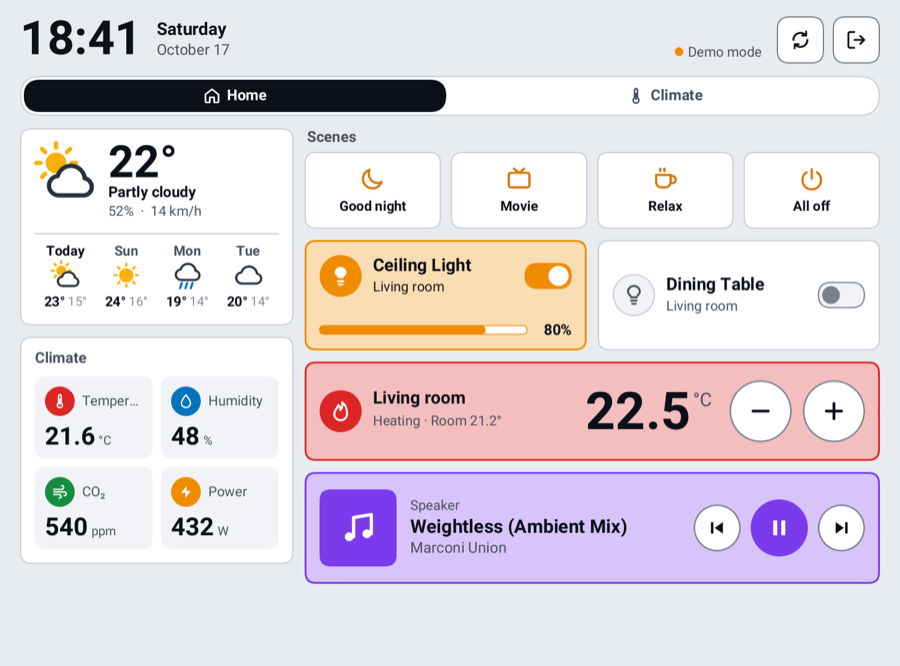
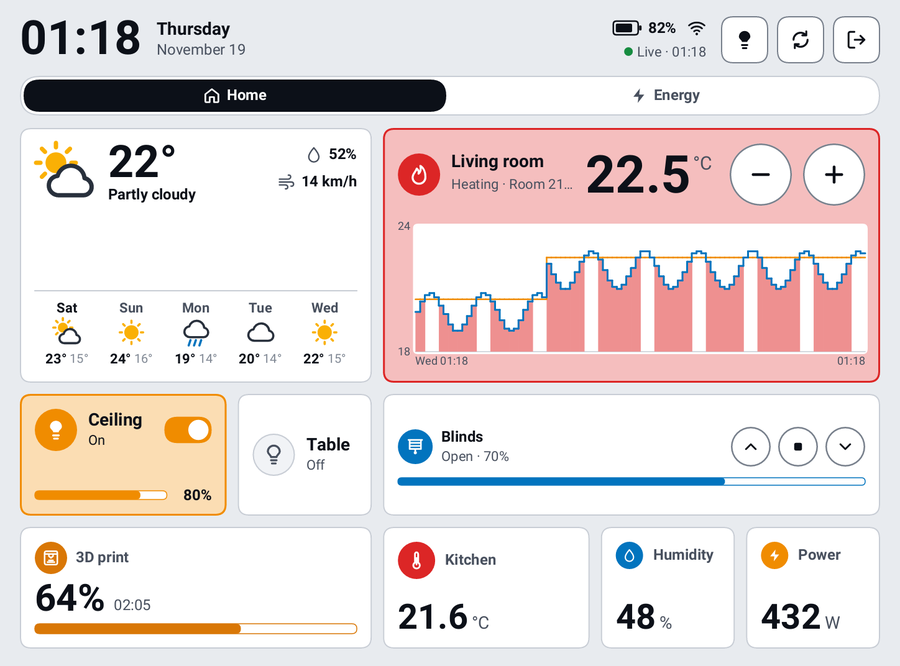
README: the designer, new cards, updates; new pictures
The pictures show a grid page with the newer cards (thermostat graph,
progress bar, blinds, compact sensors) in portrait and landscape, drawn
by the dashboard's own renderer from demo data
(`README_IMAGES=docs/images cargo test readme_images -- --ignored`),
and the setup tool's designer. Both READMEs describe the designer,
update notices, the Eject button and the log limit; the Turkish one
gets the landscape and setup pictures and the current clock advice.

diff --git a/src/ui/screen.rs b/src/ui/screen.rs
@@ -1649,6 +1649,81 @@ mod tests {
     }
 
 
+    /// The pictures in the README, from a page that shows the newer cards:
+    /// `README_IMAGES=docs/images cargo test readme_images -- --ignored`
+    #[test]
+    #[ignore]
+    fn readme_images() {
+        let Ok(dir) = std::env::var("README_IMAGES") else { return };
+        let mut states = crate::ha::mock::generate_mock_states();
+        let now = chrono::Utc::now();
+        let ms = now.timestamp_millis() as f64;
+        let rows: Vec<[f64; 4]> = (0..96)
+            .map(|i| {
+                let target = if i < 28 { 20.5 } else { 22.5 };
+                let room = target - 0.6 + ((i as f64) * 0.55).sin() * 0.9;
+                [ms - (96 - i) as f64 * 900_000.0, (room * 10.0f64).round() / 10.0, target, if room < target { 1.0 } else { 0.0 }]
+            })
+            .collect();
+        if let Some(c) = states.get_mut("climate.living_room") {
+            c.attributes.insert(crate::ui::widgets::climate_card::CLIMATE_HISTORY_ATTR.into(), serde_json::json!(rows));
+        }
+        let mut add = |id: &str, state: &str, attrs: serde_json::Value| {
+            let attributes = attrs.as_object().unwrap().iter().map(|(k, v)| (k.clone(), v.clone())).collect();
+            states.insert(id.into(), EntityState { entity_id: id.into(), state: state.into(), attributes, last_changed: None, last_updated: None });
+        };
+        add("sensor.printer_progress", "64", serde_json::json!({ "unit_of_measurement": "%" }));
+        let end = (now + chrono::Duration::minutes(47)).to_rfc3339();
+        add("sensor.printer_end", &end, serde_json::json!({ "device_class": "timestamp" }));
+        add("cover.living_room", "open", serde_json::json!({ "current_position": 70, "device_class": "shutter", "friendly_name": "Blinds" }));
+        add("binary_sensor.front_door", "off", serde_json::json!({ "device_class": "door", "friendly_name": "Front door" }));
+
+        let pages = |landscape: bool| -> String {
+            let at = |p: (u8, u8, u8, u8)| format!("{{x: {}, y: {}, w: {}, h: {}}}", p.0, p.1, p.2, p.3);
+            let (grid, weather, l1, l2, climate, print, cover, s1, s2, s3) = if landscape {
+                ("{columns: 12, rows: 8}", (0, 0, 5, 4), (0, 4, 3, 2), (3, 4, 2, 2), (5, 0, 7, 4), (0, 6, 5, 2), (5, 4, 7, 2), (5, 6, 3, 2), (8, 6, 2, 2), (10, 6, 2, 2))
+            } else {
+                ("{columns: 6, rows: 12}", (0, 0, 6, 3), (0, 3, 3, 2), (3, 3, 3, 2), (0, 5, 6, 4), (0, 9, 3, 2), (3, 9, 3, 2), (0, 11, 2, 1), (2, 11, 2, 1), (4, 11, 2, 1))
+            };
+            format!(
+                r#"
+- id: home
+  title: Home
+  icon: home
+  grid: {grid}
+  cards:
+    - {{type: weather, entity_id: weather.home, forecast_days: 5, pos: {}}}
+    - {{type: light, entity_id: light.ceiling, title: Ceiling, pos: {}}}
+    - {{type: light, entity_id: light.dining_table, title: Table, pos: {}}}
+    - {{type: climate, entity_id: climate.living_room, title: Living room, show_graph: true, pos: {}}}
+    - {{type: progress, entity_id: sensor.printer_progress, title: 3D print, icon: printer, secondary_entity: sensor.printer_end, pos: {}}}
+    - {{type: cover, entity_id: cover.living_room, title: Blinds, pos: {}}}
+    - {{type: sensor, entity_id: sensor.temperature, title: Kitchen, icon: thermometer, pos: {}}}
+    - {{type: sensor, entity_id: sensor.humidity, title: Humidity, icon: droplet, pos: {}}}
+    - {{type: sensor, entity_id: sensor.power, title: Power, icon: zap, pos: {}}}
+- id: energy
+  title: Energy
+  icon: zap
+  cards: []
+"#,
+                at(weather), at(l1), at(l2), at(climate), at(print), at(cover), at(s1), at(s2), at(s3)
+            )
+        };
+        for (name, w, h, landscape) in [("dashboard-portrait", 1072u32, 1448u32, false), ("dashboard-landscape", 1448, 1072, true)] {
+            let mut config = AppConfig::default();
+            config.home_assistant.token = "readme".into();
+            config.pages = serde_yaml::from_str(&pages(landscape)).unwrap();
+            let mut renderer = ScreenRenderer::new(&config);
+            renderer.frontlight = Some(true);
+            renderer.device_status = Some((Some(82), false, Some(true)));
+            renderer.last_update = Some(now);
+            let mut canvas = Canvas::for_screen(w, h);
+            renderer.render(&mut canvas, &config, 0, &states, true);
+            assert_eq!(renderer.hidden_cards, 0, "{name}: a card has no room");
+            std::fs::write(format!("{dir}/{name}.png"), canvas.to_png_bytes().unwrap()).unwrap();
+        }
+    }
+
     /// The page with the new-version button, and the release notes screen:
     /// `UPDATE_SCREEN=/tmp/u.png cargo test update_screen -- --ignored`
     #[test]

diff --git a/README.md b/README.md
@@ -16,9 +16,10 @@ A touch-friendly [Home Assistant](https://www.home-assistant.io/) dashboard for 
 
 - **Made for e-ink:** large type for 300 ppi screens, saturated colours that survive the Kaleido colour filter, and partial refreshes that only redraw what changed.
 - **Cards:** lights, switches, fans, thermostats (with +/- buttons), sensors with 24-hour graphs (door, motion and other binary sensors and locks read *Open / Closed*, *Detected / Clear* and so on), sensor grids, media players, weather with forecast, scene/script buttons, blinds and other covers (open, stop, close and position), progress bars (a print or a wash, with the time it ends), status strips (many entities at a glance), breakdown rings (how a total splits between devices), thermostats with a graph of room and target temperature and when they heated, section headings, charts of Home Assistant's statistics (bars, horizontal bars or a line, over hours or days), and pictures: from `image` and `camera` entities, or a file of your own added in the setup tool.
-- **Setup tool:** connect Home Assistant, get a starter dashboard generated from your areas, or import an existing Lovelace dashboard and let its cards be translated to native ones. Rearrange it with a live, pixel-exact preview, and install with one click.
+- **Setup tool:** connect Home Assistant, get a starter dashboard generated from your areas, or import an existing Lovelace dashboard and let its cards be translated to native ones. Lay it out on a grid in a drag-and-drop designer with a live, pixel-exact preview, and install with one click.
 - **12 languages:** English, Türkçe, Deutsch, Français, Español, Italiano, Nederlands, Português, Polski, Русский, 日本語 and 简体中文, for both the dashboard and the setup tool. The setup tool asks for your language when it first opens.
 - **Portrait or landscape**, and four themes: colour, high-contrast black & white, warm paper, and dark.
+- **New versions:** once a day the dashboard and the setup tool look for a new release and show its notes; skip one you don't want (see [Updates](#updates)).
 - **Safe exit:** the Kobo's reading software is paused while the dashboard runs and resumed afterwards. Tap the exit icon to go back to your books. Connecting the Kobo to a computer also returns to the reader, so it can offer to connect; a plain charger doesn't.
 
 <p align="center">
@@ -57,7 +58,7 @@ If you try it on another model, please open an issue with your `dashboard.log` (
 4. Click **Quit** (top right) to close the setup tool. You can choose to save your changes or quit without saving.
 
 > **Nothing is written until you click Save.** Changes show up in the preview right away, but your config file only changes when you click **Save** (or install to a Kobo). **Undo/Redo** (Ctrl+Z / Ctrl+Shift+Z, or ⌘ on a Mac) step through this session's edits, and **History** can discard unsaved changes or bring back one of the last 20 saved versions.
-5. Eject the Kobo. If NickelMenu was just added, the Kobo installs it and restarts by itself; otherwise restart it. Open the menu at the bottom right of the home screen and choose **Home Dashboard**. You can change this name in step 3.
+5. Eject the Kobo (the setup tool's **Eject** button next to it does this). If NickelMenu was just added, the Kobo installs it and restarts by itself; otherwise restart it. Open the menu at the bottom right of the home screen and choose **Home Dashboard**. You can change this name in step 3.
 
 > **Use an address the Kobo can reach.** The Kobo cannot resolve `.local` names (mDNS), so use Home Assistant's IP address, for example `http://192.168.1.10:8123`. The setup tool warns you and suggests the IP. Giving Home Assistant a fixed IP (a DHCP reservation in your router) keeps it from changing.
 
@@ -82,6 +83,7 @@ If you prefer to install it by hand, follow the [official instructions](https://
 - The **light** button switches the Kobo's frontlight on or off. In the setup tool you can also have the light turn off automatically after a period without taps (30 seconds to 10 minutes), which saves a lot of battery on a desk; a tap brings it back. The original brightness is restored when you leave the dashboard.
 - The **exit** button (top right) returns to the Kobo reader. The **power button** puts the dashboard to sleep when sleep mode is on; while charging, with Bluetooth on or with sleep mode off it switches the light off and on.
 - The status line shows **Live** with the time of the last update, **Offline**, or **Demo mode** (no token configured).
+- When a new version is out, a button with a dot appears in the header: it shows the release notes, and can skip that version.
 
 ## Battery life
 
@@ -95,6 +97,15 @@ Sleep mode switches Wi-Fi off before suspending (suspending with Wi-Fi on can cr
 When the battery reaches 3% without a charger (`battery_critical_percent` in `config.yaml`, 0 turns this off), the dashboard replaces the screen with "Battery empty" and suspends, even if sleep mode is off. E-ink keeps the message without power. It checks for a charger every 5 minutes and whenever the power button is pressed, and comes back by itself once the Kobo is plugged in.
 
 **Battery level in Home Assistant (optional):** turn on *Send the Kobo's battery level to Home Assistant* in the setup tool, and the dashboard writes it to a sensor (`sensor.kobo_battery` by default, with a `charging` attribute), for example for an automation that switches a smart plug on at 20% and off at 85%. It is sent when the level changes (at least every 10 minutes), right after the cable goes in or out, before "Battery empty", and in sleep mode at each wake-up. The token must belong to an admin user. Home Assistant forgets such a sensor when it restarts, until the next update.
+
+## Updates
+
+Once a day the dashboard (when Wi-Fi is up) and the setup tool ask GitHub for the latest release. Only a plain client name goes with the request, nothing about you or your Home Assistant. When a newer version is out:
+
+- the setup tool shows a bar with the release notes and a **Download** button for your system's package;
+- the Kobo shows a button in the header that opens the notes.
+
+Both can **skip this version**: it is not offered again, though a later one is. To install, download the new package, run its setup tool and install to the Kobo as before; your settings stay. Turn the check off with *Look for new versions* in the setup tool, or `updates.check: false` in `config.yaml`.
 
 ## Languages
 
@@ -125,7 +136,7 @@ The setup tool writes `config.yaml` for you. If you prefer editing it by hand, [
 
 ## Troubleshooting
 
-- **Log file:** each start writes `.kobo-ha/dashboard.log` on the Kobo (the previous run is kept as `dashboard.log.old`). It shows the screen format, the e-ink refresh method and the touch device that were detected.
+- **Log file:** each start writes `.kobo-ha/dashboard.log` on the Kobo (the previous run is kept as `dashboard.log.old`). It shows the screen format, the e-ink refresh method and the touch device that were detected. A log over 1 MB is moved to `dashboard.log.old` and started again, so the two never take more than about 2 MB; the setup tool's install step can delete the old logs.
 - **The Kobo freezes and then reboots:** Kobo firmware has a watchdog (`sickel`) that restarts the device when the reading app stops responding. The launcher pauses it together with the reading app. If you see this, reinstall with the setup tool to get the current launcher.
 - **The picture is rotated or upside down:** set `device.fb_rotation` to `0`, `90`, `180` or `270`.
 - **Taps land in the wrong place:** adjust `swap_touch_xy`, `invert_touch_x` and `invert_touch_y`. The log lists every tap with its screen position and what it hit (`Tap at (973, 475) -> Some(…)`), so you can see which way the axes are off.
@@ -146,7 +157,7 @@ cargo test                     # unit tests, including translation completeness
 ./deploy/install.sh            # copy the build + ./config.yaml to a connected Kobo
 ```
 
-When run from the project folder, the setup tool picks up the ARM build from `target/armv7-unknown-linux-musleabihf/release/` automatically.
+When run from the project folder, the setup tool picks up the ARM build from `target/armv7-unknown-linux-musleabihf/release/` automatically. `cargo run` does not rebuild it: run `./deploy/build-kobo.sh` again after changing code the Kobo runs. The install step warns when the ARM build comes from another commit than the setup tool.
 
 Releases are built by GitHub Actions: pushing a tag like `v0.2.0` produces packages for macOS (Apple silicon and Intel), Windows and Linux. Each package contains the Kobo program in its `kobo/` folder.
 
@@ -166,6 +177,7 @@ This project was built with [Claude Code](https://claude.com/claude-code), Anthr
 
 - [NickelMenu](https://pgaskin.net/NickelMenu/) by Patrick Gaskin, for the menu entry.
 - [KOReader](https://github.com/koreader/koreader) and [FBInk](https://github.com/NiLuJe/FBInk), whose documented device knowledge (touch layouts, e-ink ioctls, the Nickel watchdog) made this possible.
+- [gridstack.js](https://gridstackjs.com/) (MIT), for dragging and resizing cards in the setup tool's designer.
 - Fonts: [Roboto](https://github.com/googlefonts/roboto) (embedded) and [Noto Sans CJK](https://github.com/notofonts/noto-cjk) (downloaded on demand, SIL Open Font License).
 
 Not affiliated with Rakuten Kobo or Home Assistant.

diff --git a/README.tr.md b/README.tr.md
@@ -8,17 +8,24 @@ Kobo e-okuyucular için dokunmatik bir [Home Assistant](https://www.home-assista
 
 <p align="center">
   <img src="docs/images/dashboard-portrait.png" width="380" alt="Kobo Clara Colour üzerinde panel">
+  &nbsp;
+  <img src="docs/images/dashboard-landscape.png" width="470" alt="Yatay yerleşim">
 </p>
 
 ## Özellikler
 
 - **E-ink için tasarlandı:** 300 ppi ekran için büyük yazılar, Kaleido renk filtresinde kaybolmayan canlı renkler, sadece değişen bölgeyi yenileyen kısmi güncelleme.
 - **Kartlar:** ışık, anahtar, fan, termostat (+/- butonlu), 24 saatlik grafikli sensör (kapı, hareket gibi ikili sensörler ve kilitler *Açık / Kapalı*, *Algılandı / Temiz* gibi durumlarla görünür), sensör ızgarası, medya oynatıcı, tahminli hava durumu, sahne/script butonları, panjur ve perdeler (aç, durdur, kapat ve konum), ilerleme çubukları (bir baskı ya da yıkama, bitiş saatiyle), toplu durum şeritleri (birçok varlık bir bakışta), dağılım halkaları (bir toplamın cihazlara dağılımı), oda ve hedef sıcaklığı ile ısıtmanın çalıştığı zamanları gösteren grafikli termostatlar, bölüm başlıkları, Home Assistant istatistiklerinden grafikler (dikey ya da yatay çubuk veya çizgi, saatler ya da günler boyunca) ve resimler: `image` ile `camera` entity'lerinden ya da kurulum aracında eklediğiniz kendi dosyanızdan.
-- **Kurulum aracı:** Home Assistant'a bağlanır, alanlarınıza göre başlangıç paneli oluşturur ya da mevcut bir Lovelace dashboard'unu içe aktarıp kartlarını panelin kendi kartlarına çevirir, kartları canlı önizlemeyle düzenletir ve tek tıkla kurar. Önizleme, Kobo'nun göstereceğiyle birebir aynıdır.
+- **Kurulum aracı:** Home Assistant'a bağlanır, alanlarınıza göre başlangıç paneli oluşturur ya da mevcut bir Lovelace dashboard'unu içe aktarıp kartlarını panelin kendi kartlarına çevirir, kartları sürükle-bırak tasarımcıda bir ızgaraya yerleştirtir ve tek tıkla kurar. Önizleme, Kobo'nun göstereceğiyle birebir aynıdır.
 - **12 dil:** English, Türkçe, Deutsch, Français, Español, Italiano, Nederlands, Português, Polski, Русский, 日本語, 简体中文. Hem panel hem kurulum aracı çevrili; araç ilk açılışta dilinizi sorar.
 - **Model desteği:** Clara Colour, Clara BW, Libra Colour, Tolino modelleri ve eski Glo, Aura, Nia, Glo HD, Aura HD, Aura H2O, Touch ve Mini bağlanınca otomatik tanınır; diğerleri listeden seçilir. Cihazda her zaman gerçek ekran çözünürlüğü kullanılır.
 - Dikey veya yatay kullanım ve dört tema: renkli, yüksek kontrast siyah-beyaz, sıcak kağıt, koyu.
+- **Yeni sürümler:** panel ve kurulum aracı günde bir kez yeni sürüm olup olmadığına bakar ve sürüm notlarını gösterir; istemediğiniz bir sürümü atlayabilirsiniz (bkz. [Güncellemeler](#güncellemeler)).
 - **Güvenli çıkış:** Kobo'nun okuma yazılımı dashboard açıkken duraklatılır, çıkınca devam eder. Çıkış simgesine dokunun. Kobo'yu bilgisayara bağlayınca da okuma ekranına dönülür, böylece bağlanmayı sorabilir; sadece şarj cihazına takmak paneli kapatmaz.
+
+<p align="center">
+  <img src="docs/images/setup-design.png" width="860" alt="Kurulum aracı">
+</p>
 
 ## Hızlı başlangıç
 
@@ -33,7 +40,7 @@ Kobo e-okuyucular için dokunmatik bir [Home Assistant](https://www.home-assista
 4. Sağ üstteki **Çıkış** ile kurulum aracını kapatın. Değişiklikleri kaydedip ya da kaydetmeden çıkabilirsiniz.
 
 > **Kaydet'e basmadan hiçbir şey dosyaya yazılmaz.** Değişiklikler önizlemede hemen görünür, ama config dosyanız yalnızca **Kaydet**'e bastığınızda (ya da Kobo'ya kurduğunuzda) değişir. **Geri al / Yinele** (Ctrl+Z / Ctrl+Shift+Z, Mac'te ⌘) bu oturumdaki adımlar arasında gezer; **Geçmiş** kaydedilmemiş değişiklikleri atar ya da son 20 kayıtlı sürümden birini geri getirir.
-5. Kobo'yu çıkarın. NickelMenu yeni eklendiyse Kobo onu kurup kendiliğinden yeniden başlar; değilse siz yeniden başlatın. Ana ekranın sağ altındaki menüden **Home Dashboard**'u seçin. Bu adı 3. adımda değiştirebilirsiniz.
+5. Kobo'yu çıkarın (kurulum aracında Kobo'nun yanındaki **Kobo'yu çıkar** düğmesi bunu yapar). NickelMenu yeni eklendiyse Kobo onu kurup kendiliğinden yeniden başlar; değilse siz yeniden başlatın. Ana ekranın sağ altındaki menüden **Home Dashboard**'u seçin. Bu adı 3. adımda değiştirebilirsiniz.
 
 > Kobo `.local` adreslerini çözemez. Home Assistant'ın IP adresini kullanın (ör. `http://192.168.1.10:8123`); kurulum aracı bunu otomatik önerir.
 
@@ -42,6 +49,7 @@ Kobo e-okuyucular için dokunmatik bir [Home Assistant](https://www.home-assista
 - Bir karta dokunmak onu açıp kapatır; termostatlarda **−** / **+**, medya oynatıcıda oynatma butonları vardır.
 - Üst çubuktaki **ışık** butonu Kobo'nun ön ışığını açıp kapatır. Kurulum aracında ışığın, belirli bir süre dokunulmayınca (30 saniye – 10 dakika) otomatik kapanmasını da seçebilirsiniz; masaüstünde pilden çok tasarruf sağlar. Bir dokunuş ışığı geri açar. Panelden çıkınca ışık eski parlaklığına döner.
 - **Çıkış** butonu (sağ üst) okuma ekranına geri döndürür. **Güç tuşu**, uyku modu açıksa paneli uyutur; şarjdayken, Bluetooth açıkken ya da uyku modu kapalıyken ışığı kapatıp açar.
+- Yeni bir sürüm çıktığında üst çubukta noktalı bir düğme belirir: sürüm notlarını gösterir ve o sürümü atlamanızı sağlar.
 
 ## Pil ömrü
 
@@ -51,6 +59,15 @@ Kobo e-okuyucular için dokunmatik bir [Home Assistant](https://www.home-assista
 - Şarj kablosu takılı değilken pil %3'e inince (`config.yaml` içinde `battery_critical_percent`, 0 kapatır) panel, uyku modu kapalı olsa bile ekrana "Pil bitti" yazar ve uykuya geçer. E-ink yazıyı güç harcamadan korur. 5 dakikada bir ve güç tuşuna her basıldığında şarja takılıp takılmadığına bakar, takılınca kendiliğinden geri gelir.
 - **Pil seviyesi Home Assistant'ta (isteğe bağlı):** kurulum aracında *Kobo'nun pil seviyesini Home Assistant'a gönder* seçeneğini açınca panel pil seviyesini bir sensöre yazar (varsayılan `sensor.kobo_battery`, `charging` özelliğiyle). Örneğin %20'de akıllı prizi açıp %85'te kapatan bir otomasyon kurabilirsiniz. Seviye değişince (en az 10 dakikada bir), kablo takılıp çıkarılınca hemen, "Pil bitti"den önce ve uyku modunda her uyanışta gönderilir. Token admin kullanıcıya ait olmalı. Home Assistant yeniden başlayınca sensör bir sonraki güncellemeye kadar kaybolur.
 - **Uyku modu çalışmıyorsa:** `dashboard.log` nedenini yazar. Uykudayken takılırsa güç tuşuna yaklaşık 15 saniye basılı tutarak yeniden başlatın, uyku modunu **Hiçbir zaman** yapın ve `dashboard.log.old` ile bir sorun bildirin.
+
+## Güncellemeler
+
+Panel (Wi-Fi açıkken) ve kurulum aracı günde bir kez GitHub'a en son sürümü sorar. İstekle yalnızca genel bir program adı gider; sizin ya da Home Assistant'ınız hakkında bir bilgi gitmez. Daha yeni bir sürüm çıktıysa:
+
+- kurulum aracında sürüm notlarını ve sisteminize uygun paketi indiren bir **İndir** düğmesini içeren bir bant görünür;
+- Kobo'da üst çubukta notları açan bir düğme belirir.
+
+İkisinde de **Bu sürümü atla** denebilir; o sürüm bir daha önerilmez, ama sonraki sürümler önerilir. Kurmak için yeni paketi indirip kurulum aracını çalıştırın ve her zamanki gibi Kobo'ya kurun; ayarlarınız korunur. Denetimi kurulum aracındaki *Yeni sürümleri denetle* kutusuyla ya da `config.yaml` içinde `updates.check: false` ile kapatabilirsiniz.
 
 ## NickelMenu hakkında
 
@@ -66,10 +83,10 @@ Kobo kendi başına üçüncü parti uygulama çalıştıramaz. Panel, Patrick G
 
 ## Sorun giderme
 
-- **Günlük dosyası:** Kobo'daki `.kobo-ha/dashboard.log`.
+- **Günlük dosyası:** Kobo'daki `.kobo-ha/dashboard.log` (bir önceki çalıştırmanınki `dashboard.log.old`). 1 MB'ı geçen günlük `.old` olarak saklanıp yeniden başlar, böylece ikisi birlikte 2 MB'ı geçmez; kurulum aracının Kur adımı eski günlükleri silebilir.
 - **Cihaz donup yeniden başlıyorsa:** Kobo'nun `sickel` watchdog'u, okuma yazılımı yanıt vermeyince cihazı yeniden başlatır. Güncel başlatıcı onu da duraklatır; kurulum aracıyla yeniden kurun.
 - **Görüntü ters veya yan çıkıyorsa:** `device.fb_rotation` değerini `0`, `90`, `180` veya `270` yapın.
-- **Saat yanlışsa:** `theme.utc_offset` ayarlayın (kurulum aracındaki **Use mine** butonu doldurur).
+- **Saat yanlışsa:** kurulum aracı, çalıştığı bilgisayarın saat dilimini yaz/kış saatine uyan bir kural olarak `.kobo-ha/launch.sh`'a yazar; Kobo'ya kurulum aracıyla yeniden kurmak genellikle yeter. `theme.utc_offset` sabit bir fark verir ve bu kuralın önüne geçer; sabitlemek istemiyorsanız boş bırakın.
 - **"Bağlantı yok":** reverse proxy veya Cloudflare arkasında HTTPS genelde varsayılan porttadır; `:8123` yazmayın.
 
 Ayrıntılar, çeviri ekleme ve kaynaktan derleme için [İngilizce README](README.md)'ye bakın.
